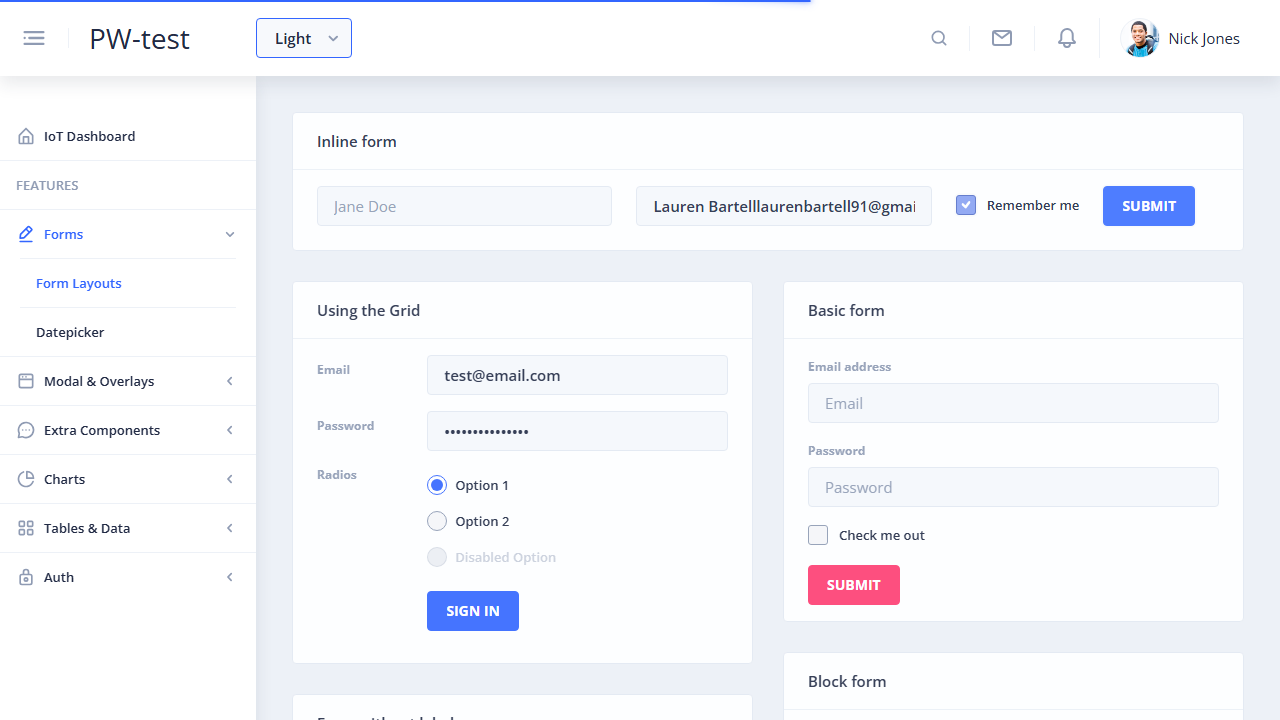
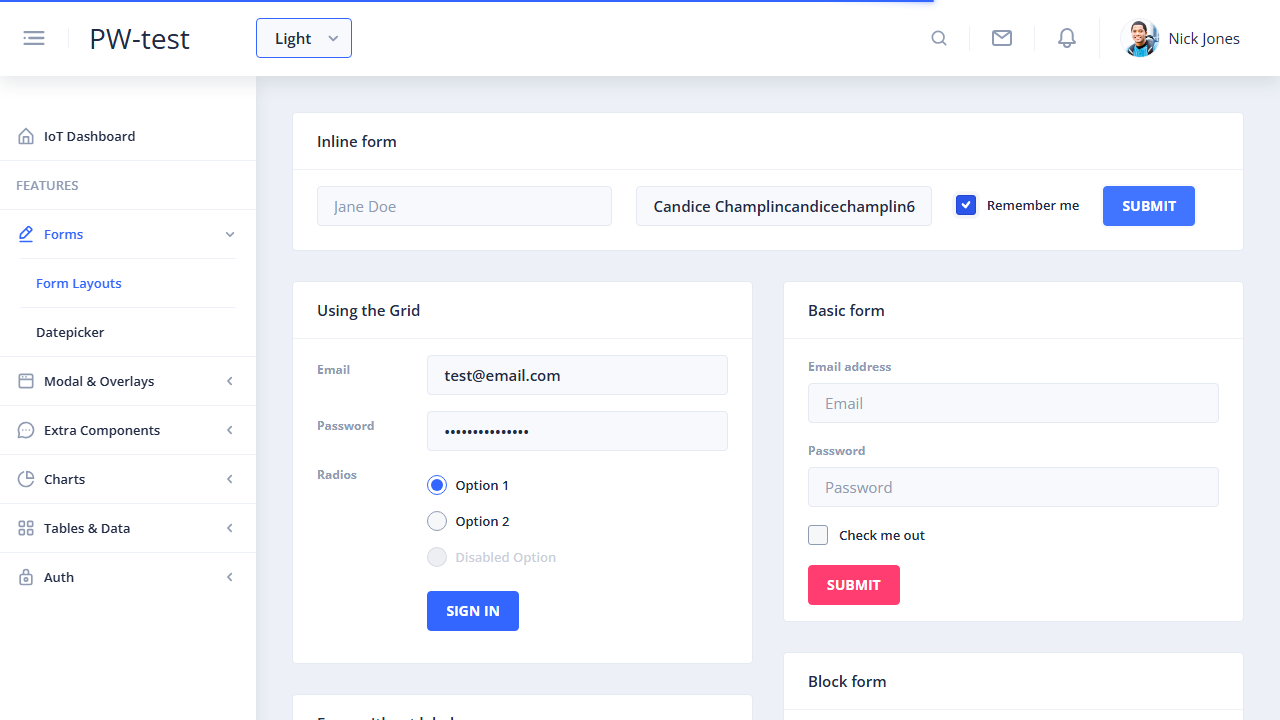
10dec

diff --git a/test-automation/playwright.config.ts b/test-automation/playwright.config.ts
@@ -1,4 +1,5 @@
 import { defineConfig, devices } from '@playwright/test';
+import type {TestOptions} from './testOptions';
 
 /**
  * Read environment variables from file.
@@ -11,7 +12,7 @@ import { defineConfig, devices } from '@playwright/test';
 /**
  * See https://playwright.dev/docs/test-configuration.
  */
-export default defineConfig({
+export default defineConfig<TestOptions>({
 
   timeout: 40*1000,
   globalTimeout: 1*60*60*1000, //1 hour timeout
@@ -29,7 +30,12 @@ export default defineConfig({
   /* Shared settings for all the projects below. See https://playwright.dev/docs/api/class-testoptions. */
   use: {
     /* Base URL to use in actions like `await page.goto('')`. */
-    // baseURL: 'http://localhost:3000',
+    //baseURL: 'http://localhost:4200',
+    // baseURL: process.env.DEV === '1' ? 'http://localhost:4201' 
+    // : process.env.STG === '1' ? 'http://stg:4202' 
+    // : process.env.LOCAL === '1' ? 'http://localhost:4200'
+
+    globalUrl : 'https://www.globalsqa.com/demo-site/draganddrop/',
 
     /* Collect trace when retrying the failed test. See https://playwright.dev/docs/trace-viewer */
     trace: 'on',
@@ -45,6 +51,24 @@ export default defineConfig({
 
   /* Configure projects for major browsers */
   projects: [
+     {
+      name: 'dev',
+      use: { ...devices['Desktop Chrome'],
+          baseURL: 'http://dev:4200'
+       },
+    },
+     {
+      name: 'stg',
+      use: { ...devices['Desktop Chrome'],
+          baseURL: 'http://stg:4200'
+       },
+    },
+     {
+      name: 'local',
+      use: { ...devices['Desktop Chrome'],
+          baseURL: 'http://localhost:4200'
+       },
+    },
      {
       name: 'setup',
       use: { ...devices['Desktop Chrome'] ,
@@ -76,6 +100,12 @@ export default defineConfig({
       name: 'webkit',
       use: { ...devices['Desktop Safari'] },
     },
+    {
+      name: 'mobile',
+      use:{
+        ...devices['iPhone 14 Pro Max']
+      }
+    }
 
     /* Test against mobile viewports. */
     // {

diff --git a/test-automation/tests/usingPOM.spec.ts b/test-automation/tests/usingPOM.spec.ts
@@ -5,10 +5,10 @@ import {faker} from '@faker-js/faker'
 
 test.beforeEach(async ({page}) =>
 {
-  await page.goto('http://localhost:4200/')
+  await page.goto('/')
 })
 
-test('navigating to form layout page', async ({page})=>
+test('navigating to form layout page @smoke', async ({page})=>
 {
     const navigateTo = new NavigationPage(page)
     await navigateTo.formLayoutsPage()
@@ -18,7 +18,8 @@ test('navigating to form layout page', async ({page})=>
     await navigateTo.toasterPage()
 })
 
-test('navigating to form layout page and submit form', async ({page})=>
+test('navigating to form layout page and submit form',{tag: '@sanity'},
+     async ({page})=>
 {
     const navigateTo = new NavigationPage(page)
     const onFormLayouts = new FormLayoutsPage(page)
@@ -40,7 +41,8 @@ test('navigating to form layout page and submit form', async ({page})=>
     await page.screenshot({path: 'screenshots/formSubmission_page.png', fullPage: true})
 })
 
-test('example here', async ({page})=>
+test('example here', {tag: ['@regression', '@smoke']},
+    async ({page})=>
 {
     const navigateTo = new NavigationPage(page)
     

diff --git a/test-automation/tests/dragAndDrop.spec.ts b/test-automation/tests/dragAndDrop.spec.ts
@@ -1,8 +1,9 @@
-import {test, expect} from '@playwright/test'
+import { expect} from '@playwright/test'
+import { test } from '../testOptions'
 
-test('drag and drop test', async ({page})=>
+test('drag and drop test', async ({page, globalUrl})=>
 {
-  await page.goto('https://www.globalsqa.com/demo-site/draganddrop/')
+  await page.goto(globalUrl)
 
   const frame =
   page.frameLocator('[rel-title="Photo Manager"] iframe')

diff --git a/test-automation/tests/usingCodeGen.spec.ts b/test-automation/tests/usingCodeGen.spec.ts
@@ -1,6 +1,7 @@
 import { test, expect } from '@playwright/test';
 
-test('test using code gen', async ({ page }) => {
+test('test using code gen',{tag: '@TC001'},
+   async ({ page }) => {
   await page.goto('https://practicesoftwaretesting.com/');
   await page.locator('[data-test="nav-sign-in"]').click();
   await page.locator('[data-test="email"]').fill('test@test.com');

diff --git a/test-automation/tests/timeoutexamples.spec.ts b/test-automation/tests/timeoutexamples.spec.ts
@@ -1,7 +1,9 @@
 import {test, expect} from '@playwright/test';
 test.beforeEach(async ({page}) =>
 {
-  await page.goto('http://www.uitestingplayground.com/ajax')
+  //await page.goto('http://www.uitestingplayground.com/ajax')
+
+  await page.goto(process.env.URL)
   await page.getByText('Button Triggering AJAX Request').click()
 
 })

diff --git a/test-automation/testOptions.ts b/test-automation/testOptions.ts
@@ -1,0 +1,14 @@
+import {test as base} from '@playwright/test';
+import {expect as expectType} from '@playwright/test';
+
+
+export type TestOptions =
+{
+  globalUrl : string
+}
+
+export const test = base.extend<TestOptions>(
+  {
+    globalUrl: ['', {option: true}]
+  }
+)

diff --git a/test-automation/tests/firstTest.spec.ts b/test-automation/tests/firstTest.spec.ts
@@ -2,7 +2,7 @@ import {test, expect} from '@playwright/test';
 
 test.beforeEach(async ({page}) =>
 {
-  await page.goto('http://localhost:4200/')
+  await page.goto('/')
   await page.getByText('Forms').click()
   await page.getByText('Form Layouts').click()
 

diff --git a/test-automation/tests/uiComponents.spec.ts b/test-automation/tests/uiComponents.spec.ts
@@ -2,7 +2,7 @@ import {test, expect} from '@playwright/test';
 
 test.beforeEach(async ({page}) =>
 {
-  await page.goto('http://localhost:4200/')
+  await page.goto('/')
  
 
 })
